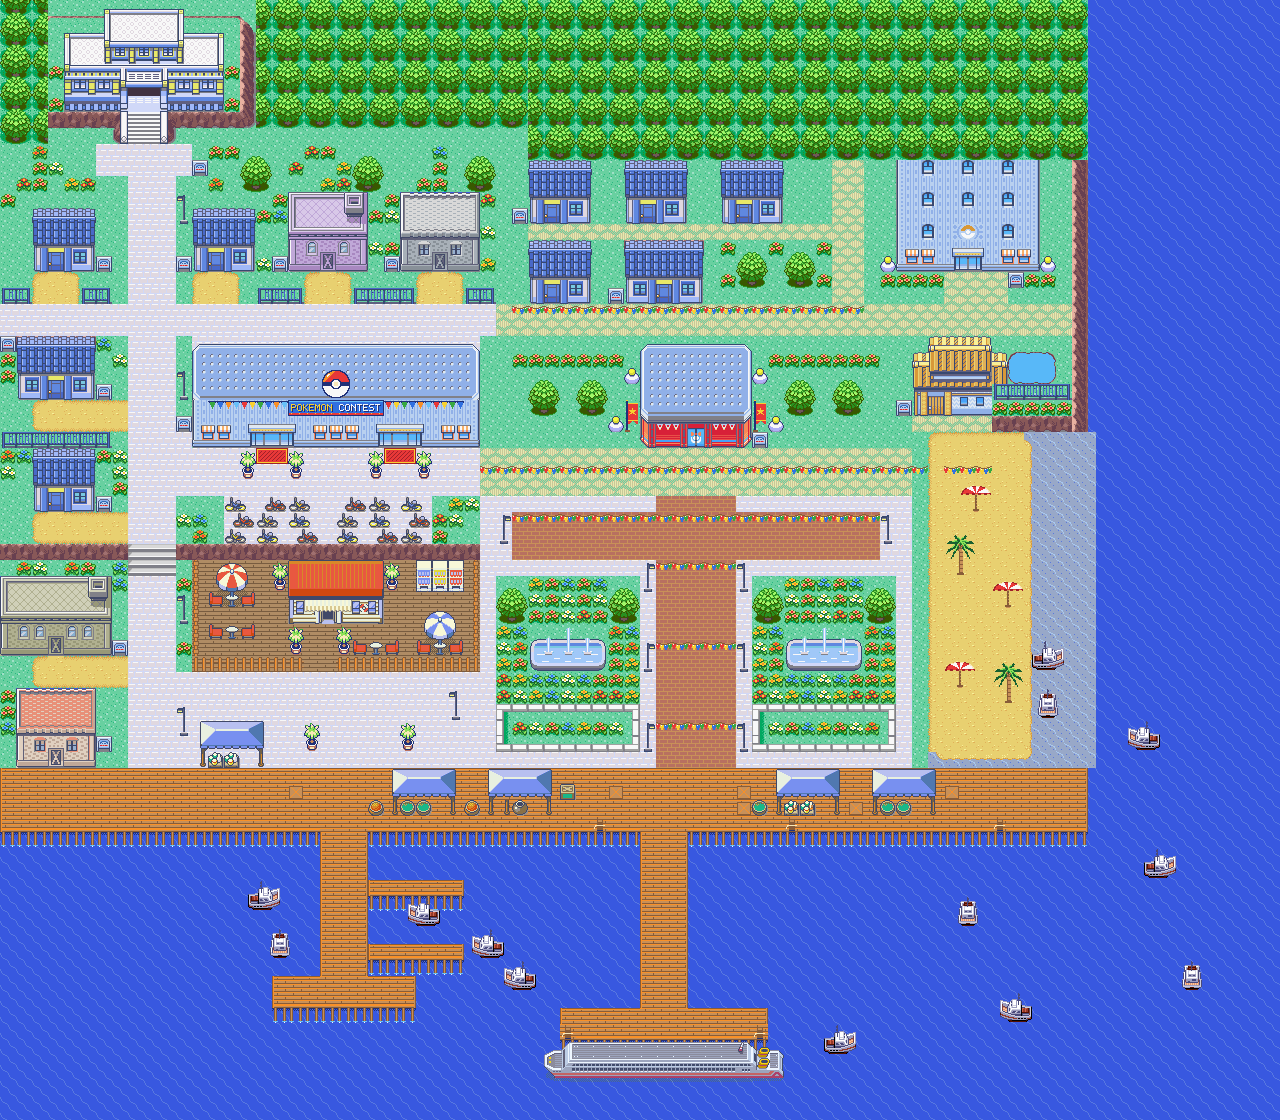
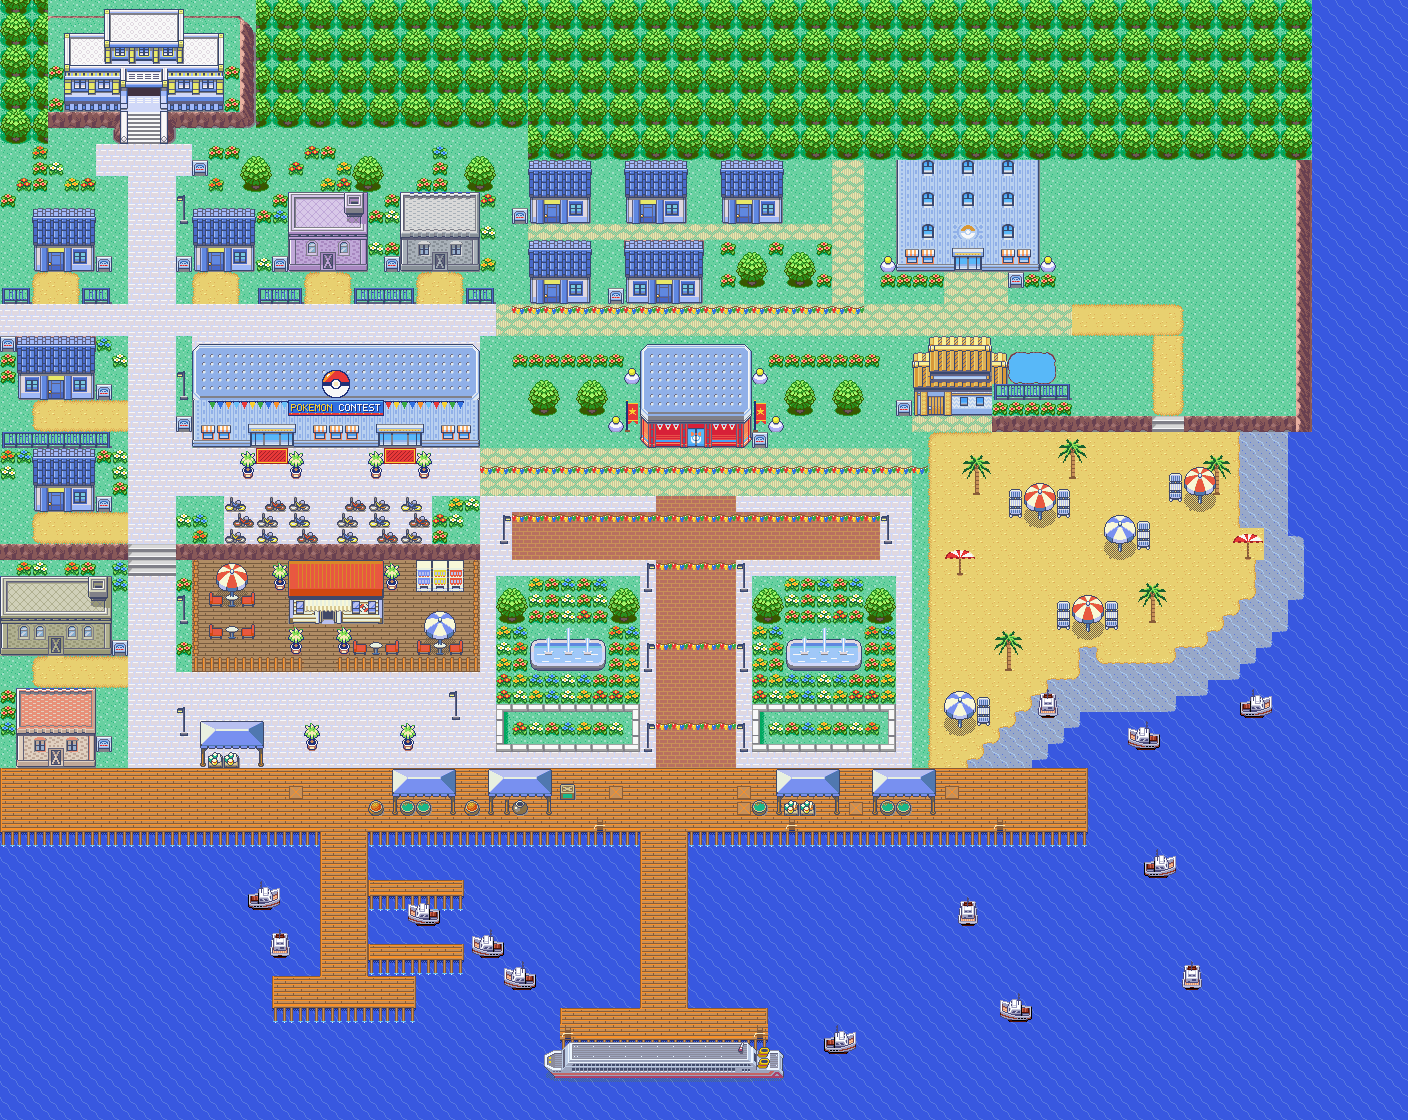
Beach: map widened east, natural horizontal shoreline, hotel plateau, sand road with stairs, beach sets
- Map 88x70. Shore decided per corner (sand / shallow / sea) with the original Lilycove shore pieces.
- Hotel plateau to the north (reserved), cliff edge, forest; sand road from the north street down a
  stair in the cliff.
- Palms, festival umbrellas and Route 109 umbrella + lounge chair sets (sprites).
- overview.py renders the full map with sprites.

Claude-Session: https://claude.ai/code/session_015nAeBdQj1XXGE9TrWVaT6H

diff --git a/src/data/object_events/lilycove_decor.h b/src/data/object_events/lilycove_decor.h
@@ -1,6 +1,91 @@
 // Generated by dev_scripts/lilycove_redesign/decor_sprites.py -- do not edit.
 const u16 gObjectEventPal_LilycoveDecor[] = INCGFX_U16("graphics/object_events/palettes/lilycove_decor.pal", ".gbapal");
 
+const u32 gObjectEventPic_LcBeachSetBlue[] = INCGFX_U32("graphics/object_events/pics/misc/lc_beach_set_blue.png", ".4bpp");
+static const struct SpriteFrameImage sPicTable_LcBeachSetBlue[] = { obj_frame_tiles(gObjectEventPic_LcBeachSetBlue), };
+static const struct Subsprite sOamTable_LcBeachSetBlue_2[] = {
+    {.x = -24, .y = -24, .shape = SPRITE_SHAPE(32x32), .size = SPRITE_SIZE(32x32), .tileOffset = 0, .priority = 2},
+    {.x = 8, .y = -24, .shape = SPRITE_SHAPE(16x32), .size = SPRITE_SIZE(16x32), .tileOffset = 16, .priority = 2},
+    {.x = -24, .y = 8, .shape = SPRITE_SHAPE(32x16), .size = SPRITE_SIZE(32x16), .tileOffset = 24, .priority = 2},
+    {.x = 8, .y = 8, .shape = SPRITE_SHAPE(16x16), .size = SPRITE_SIZE(16x16), .tileOffset = 32, .priority = 2},
+};
+static const struct Subsprite sOamTable_LcBeachSetBlue_1[] = {
+    {.x = -24, .y = -24, .shape = SPRITE_SHAPE(32x32), .size = SPRITE_SIZE(32x32), .tileOffset = 0, .priority = 1},
+    {.x = 8, .y = -24, .shape = SPRITE_SHAPE(16x32), .size = SPRITE_SIZE(16x32), .tileOffset = 16, .priority = 1},
+    {.x = -24, .y = 8, .shape = SPRITE_SHAPE(32x16), .size = SPRITE_SIZE(32x16), .tileOffset = 24, .priority = 1},
+    {.x = 8, .y = 8, .shape = SPRITE_SHAPE(16x16), .size = SPRITE_SIZE(16x16), .tileOffset = 32, .priority = 1},
+};
+static const struct SubspriteTable sOamTables_LcBeachSetBlue[] = {
+    {ARRAY_COUNT(sOamTable_LcBeachSetBlue_2), sOamTable_LcBeachSetBlue_2},
+    {ARRAY_COUNT(sOamTable_LcBeachSetBlue_2), sOamTable_LcBeachSetBlue_2},
+    {ARRAY_COUNT(sOamTable_LcBeachSetBlue_1), sOamTable_LcBeachSetBlue_1},
+    {ARRAY_COUNT(sOamTable_LcBeachSetBlue_2), sOamTable_LcBeachSetBlue_2},
+    {ARRAY_COUNT(sOamTable_LcBeachSetBlue_1), sOamTable_LcBeachSetBlue_1},
+    {ARRAY_COUNT(sOamTable_LcBeachSetBlue_1), sOamTable_LcBeachSetBlue_1},
+};
+const struct ObjectEventGraphicsInfo gObjectEventGraphicsInfo_LcBeachSetBlue = {
+    .tileTag = TAG_NONE, .paletteTag = OBJ_EVENT_PAL_TAG_LILYCOVE_DECOR, .reflectionPaletteTag = OBJ_EVENT_PAL_TAG_NONE,
+    .size = 1152, .width = 48, .height = 48, .paletteSlot = PALSLOT_NPC_SPECIAL, .shadowSize = SHADOW_SIZE_M,
+    .inanimate = TRUE, .compressed = FALSE, .tracks = TRACKS_NONE, .oam = &gObjectEventBaseOam_8x8,
+    .subspriteTables = sOamTables_LcBeachSetBlue, .anims = sAnimTable_Inanimate, .images = sPicTable_LcBeachSetBlue,
+};
+
+const u32 gObjectEventPic_LcBeachSetRed[] = INCGFX_U32("graphics/object_events/pics/misc/lc_beach_set_red.png", ".4bpp");
+static const struct SpriteFrameImage sPicTable_LcBeachSetRed[] = { obj_frame_tiles(gObjectEventPic_LcBeachSetRed), };
+static const struct Subsprite sOamTable_LcBeachSetRed_2[] = {
+    {.x = -40, .y = -24, .shape = SPRITE_SHAPE(64x32), .size = SPRITE_SIZE(64x32), .tileOffset = 0, .priority = 2},
+    {.x = -40, .y = 8, .shape = SPRITE_SHAPE(32x16), .size = SPRITE_SIZE(32x16), .tileOffset = 32, .priority = 2},
+    {.x = -8, .y = 8, .shape = SPRITE_SHAPE(32x16), .size = SPRITE_SIZE(32x16), .tileOffset = 40, .priority = 2},
+};
+static const struct Subsprite sOamTable_LcBeachSetRed_1[] = {
+    {.x = -40, .y = -24, .shape = SPRITE_SHAPE(64x32), .size = SPRITE_SIZE(64x32), .tileOffset = 0, .priority = 1},
+    {.x = -40, .y = 8, .shape = SPRITE_SHAPE(32x16), .size = SPRITE_SIZE(32x16), .tileOffset = 32, .priority = 1},
+    {.x = -8, .y = 8, .shape = SPRITE_SHAPE(32x16), .size = SPRITE_SIZE(32x16), .tileOffset = 40, .priority = 1},
+};
+static const struct SubspriteTable sOamTables_LcBeachSetRed[] = {
+    {ARRAY_COUNT(sOamTable_LcBeachSetRed_2), sOamTable_LcBeachSetRed_2},
+    {ARRAY_COUNT(sOamTable_LcBeachSetRed_2), sOamTable_LcBeachSetRed_2},
+    {ARRAY_COUNT(sOamTable_LcBeachSetRed_1), sOamTable_LcBeachSetRed_1},
+    {ARRAY_COUNT(sOamTable_LcBeachSetRed_2), sOamTable_LcBeachSetRed_2},
+    {ARRAY_COUNT(sOamTable_LcBeachSetRed_1), sOamTable_LcBeachSetRed_1},
+    {ARRAY_COUNT(sOamTable_LcBeachSetRed_1), sOamTable_LcBeachSetRed_1},
+};
+const struct ObjectEventGraphicsInfo gObjectEventGraphicsInfo_LcBeachSetRed = {
+    .tileTag = TAG_NONE, .paletteTag = OBJ_EVENT_PAL_TAG_LILYCOVE_DECOR, .reflectionPaletteTag = OBJ_EVENT_PAL_TAG_NONE,
+    .size = 1536, .width = 64, .height = 48, .paletteSlot = PALSLOT_NPC_SPECIAL, .shadowSize = SHADOW_SIZE_M,
+    .inanimate = TRUE, .compressed = FALSE, .tracks = TRACKS_NONE, .oam = &gObjectEventBaseOam_8x8,
+    .subspriteTables = sOamTables_LcBeachSetRed, .anims = sAnimTable_Inanimate, .images = sPicTable_LcBeachSetRed,
+};
+
+const u32 gObjectEventPic_LcBeachSetRedL[] = INCGFX_U32("graphics/object_events/pics/misc/lc_beach_set_red_l.png", ".4bpp");
+static const struct SpriteFrameImage sPicTable_LcBeachSetRedL[] = { obj_frame_tiles(gObjectEventPic_LcBeachSetRedL), };
+static const struct Subsprite sOamTable_LcBeachSetRedL_2[] = {
+    {.x = -24, .y = -24, .shape = SPRITE_SHAPE(32x32), .size = SPRITE_SIZE(32x32), .tileOffset = 0, .priority = 2},
+    {.x = 8, .y = -24, .shape = SPRITE_SHAPE(16x32), .size = SPRITE_SIZE(16x32), .tileOffset = 16, .priority = 2},
+    {.x = -24, .y = 8, .shape = SPRITE_SHAPE(32x16), .size = SPRITE_SIZE(32x16), .tileOffset = 24, .priority = 2},
+    {.x = 8, .y = 8, .shape = SPRITE_SHAPE(16x16), .size = SPRITE_SIZE(16x16), .tileOffset = 32, .priority = 2},
+};
+static const struct Subsprite sOamTable_LcBeachSetRedL_1[] = {
+    {.x = -24, .y = -24, .shape = SPRITE_SHAPE(32x32), .size = SPRITE_SIZE(32x32), .tileOffset = 0, .priority = 1},
+    {.x = 8, .y = -24, .shape = SPRITE_SHAPE(16x32), .size = SPRITE_SIZE(16x32), .tileOffset = 16, .priority = 1},
+    {.x = -24, .y = 8, .shape = SPRITE_SHAPE(32x16), .size = SPRITE_SIZE(32x16), .tileOffset = 24, .priority = 1},
+    {.x = 8, .y = 8, .shape = SPRITE_SHAPE(16x16), .size = SPRITE_SIZE(16x16), .tileOffset = 32, .priority = 1},
+};
+static const struct SubspriteTable sOamTables_LcBeachSetRedL[] = {
+    {ARRAY_COUNT(sOamTable_LcBeachSetRedL_2), sOamTable_LcBeachSetRedL_2},
+    {ARRAY_COUNT(sOamTable_LcBeachSetRedL_2), sOamTable_LcBeachSetRedL_2},
+    {ARRAY_COUNT(sOamTable_LcBeachSetRedL_1), sOamTable_LcBeachSetRedL_1},
+    {ARRAY_COUNT(sOamTable_LcBeachSetRedL_2), sOamTable_LcBeachSetRedL_2},
+    {ARRAY_COUNT(sOamTable_LcBeachSetRedL_1), sOamTable_LcBeachSetRedL_1},
+    {ARRAY_COUNT(sOamTable_LcBeachSetRedL_1), sOamTable_LcBeachSetRedL_1},
+};
+const struct ObjectEventGraphicsInfo gObjectEventGraphicsInfo_LcBeachSetRedL = {
+    .tileTag = TAG_NONE, .paletteTag = OBJ_EVENT_PAL_TAG_LILYCOVE_DECOR, .reflectionPaletteTag = OBJ_EVENT_PAL_TAG_NONE,
+    .size = 1152, .width = 48, .height = 48, .paletteSlot = PALSLOT_NPC_SPECIAL, .shadowSize = SHADOW_SIZE_M,
+    .inanimate = TRUE, .compressed = FALSE, .tracks = TRACKS_NONE, .oam = &gObjectEventBaseOam_8x8,
+    .subspriteTables = sOamTables_LcBeachSetRedL, .anims = sAnimTable_Inanimate, .images = sPicTable_LcBeachSetRedL,
+};
+
 const u32 gObjectEventPic_LcTableSet[] = INCGFX_U32("graphics/object_events/pics/misc/lc_table_set.png", ".4bpp");
 static const struct SpriteFrameImage sPicTable_LcTableSet[] = { obj_frame_tiles(gObjectEventPic_LcTableSet), };
 static const struct Subsprite sOamTable_LcTableSet_2[] = {

diff --git a/dev_scripts/lilycove_redesign/layout.py b/dev_scripts/lilycove_redesign/layout.py
@@ -80,8 +80,7 @@ bunting(16,38,11)                                  # north street
 # palms along the promenade
 for px_ in (2,10): palm(px_,36,'brick')   # promenade palms, outside the plaza
 # beach: umbrellas + palms
-umbrella(44,22); umbrella(46,28,True); umbrella(43,33)
-palm(43,25); palm(46,33)
+# (the beach is drawn at the end, see BEACH)
 
 # ================= PORT: BOARDWALK, PIERS, STALLS, BOATS AND THE CRUISE SHIP =================
 fill(-OX,40,52,H,DEEP)
@@ -282,3 +281,70 @@ for x in (-1,6,13): lamp2(x,10,'paving') if False else None
 bunting(-8,14,21)                                                           # avenue bunting (west part)
 sign(-16,13); sign(-4,2)                                                    # city sign, museum sign
 for (sx,sy) in ((8,8),(1,8),(-5,8),(-10,8),(16,5)): sign(sx,sy)               # house signs over the gardens
+
+# ================= BEACH (east): a natural, horizontal beach under the hotel plateau ==================
+# The map was widened 8 columns to the east (logical x up to 71). Terrain is decided per CORNER
+# (vertex): S = sand, W = shallow water, D = deep sea; each cell takes the Emerald shore piece that
+# matches its 4 corners (the same pieces as the original Lilycove beach).
+import math
+SHORE = {'SSSS':0x124,'WWWW':0x19e,'DDDD':0x170,
+         'WSSS':0x185,'SWSS':0x186,'SSWS':0x18d,'SSSW':0x18e,'WWWS':0x195,'WWSS':0x196,'WWSW':0x197,
+         'WSWS':0x19d,'SWSW':0x19f,'WSWW':0x1a5,'SSWW':0x1a6,'SWWW':0x1a7,
+         'DWWW':0x19b,'WDWW':0x19c,'WWWD':0x1a4,'DDDW':0x1ad,'DDWW':0x1ae,'DDWD':0x1af,'WDWD':0x1b7,
+         'DWDD':0x1bd,'WWDD':0x1be,'WDDD':0x1bf}
+SHORE_VAL = {}
+for _y in range(0,40):                       # collision/elevation exactly as in the original map
+    for _x in range(40,80):
+        _v=o(_x,_y)
+        SHORE_VAL.setdefault(_v&0x3ff,_v)
+BX0, BX1, BY0, BY1 = 41, 72, 19, 40          # beach box (vertices); the boardwalk starts at row 40
+def south(vx):                               # sand reaches this vertex row: a gentle, mostly horizontal shore
+    if vx <= 44: return 40
+    if vx <= 51: return 34 + 6 * (1 + math.cos(math.pi * (vx - 44) / 7)) / 2
+    return 34 + 0.9 * math.sin(vx * 0.45) + 0.4 * math.sin(vx * 1.3)
+def east(vy):                                # sand reaches this vertex column: rounded east end
+    e = 62 + 0.8 * math.sin(vy * 0.5)
+    if vy > 27: e -= ((vy - 27) / 7.0) ** 2 * 5
+    return e
+def is_sand(vx, vy):
+    return vx <= east(vy) and vy <= south(vx)
+sand_v = {(vx, vy): is_sand(vx, vy) for vx in range(BX0, BX1 + 1) for vy in range(BY0, BY1 + 1)}
+def dist_to_sand(vx, vy):
+    best = 9
+    for dx in range(-3, 4):
+        for dy in range(-3, 4):
+            if sand_v.get((vx + dx, vy + dy)): best = min(best, math.hypot(dx, dy))
+    return best
+def terrain(vx, vy):
+    if sand_v.get((vx, vy)): return 'S'
+    return 'W' if dist_to_sand(vx, vy) <= 3.1 else 'D'
+missing = set()
+for y in range(BY0, BY1):
+    for x in range(BX0 + 1, BX1):
+        k = terrain(x, y) + terrain(x + 1, y) + terrain(x, y + 1) + terrain(x + 1, y + 1)
+        if k not in SHORE:
+            missing.add(k); k = 'WWWW' if 'S' not in k else ('SSSS' if k.count('S') >= 2 else 'WWWW')
+        mt = SHORE[k]; put(x, y, SHORE_VAL.get(mt, T(mt)))
+if missing: print('beach: combos without a piece:', sorted(missing))
+for y in range(BY0, BY1):                     # soft grass edge on the west side of the sand
+    if (M[y + OY][42 + OX] & 0x3ff) == 0x124: put(42, y, T(0x120))
+for x in range(42, 46): put(x, BY0, T(0x119))
+put(42, BY0, T(0x118))
+
+# --- hotel plateau to the north (future hotel): grass, cliff edge to the beach, forest behind
+fill(51, 2, 65, 18, GRASS); trees(52, -8, 66, 2, grass_above=False)
+for y in range(2, 19): put(65, y, T(0x075, 1, 0))
+for x in range(46, 65): put(x, 18, T(0x079, 1, 0))
+fill(66, -8, 72, 19, DEEP)
+# --- sand road: from the end of the north street across the plateau and down to the beach
+trail(51, 11, 58, 13, 'l')                    # along the north street line
+trail(56, 13, 58, 18, 't')                    # turning south (soft edges on both sides)
+stairs3(55, 18, 19) if False else None
+put(56, 18, T(0x0af)); put(57, 18, T(0x0cf))  # stairs down the cliff to the sand
+
+# --- beach dressing: palms and small festival umbrellas (tileset), umbrella+chair sets (sprites)
+for (px_, py_) in ((44, 20), (50, 19), (59, 20), (46, 31), (55, 28)): palm(px_, py_, 'sand')
+for (ux, uy) in ((43, 26), (61, 25)): umbrella(ux, uy)
+decor('beach_set_red', 47, 22, walk_rows=1); decor('beach_set_blue', 53, 24, walk_rows=1)
+decor('beach_set_red_l', 57, 21, walk_rows=1); decor('beach_set_red', 50, 29, walk_rows=1)
+decor('beach_set_blue', 43, 35, walk_rows=1)

diff --git a/dev_scripts/lilycove_redesign/overview.py b/dev_scripts/lilycove_redesign/overview.py
@@ -1,0 +1,51 @@
+"""Renders the whole Lilycove map WITH its sprites (cruise ship, boats, decorations) and,
+optionally, zone labels: python3 overview.py out.png [--labels]"""
+import json, os, sys
+from PIL import Image, ImageDraw, ImageFont
+import render, port_art as P, authentic_art as A
+from compose import W, OX, OY
+HERE = os.path.dirname(os.path.abspath(__file__)); REPO = os.path.abspath(os.path.join(HERE, '..', '..'))
+
+def build(out, labels=False):
+    tmp = out + '.bg.png'
+    render.render(os.path.join(REPO, 'data/layouts/LilycoveCity/map.bin'), W, tmp, sec='secondary/lilycove_city')
+    im = Image.open(tmp).convert('RGBA'); os.remove(tmp)
+    m = json.load(open(os.path.join(REPO, 'data/maps/LilycoveCity/map.json'))); cache = {}
+    def idx(c, slot):
+        pal = P.PALETTES[slot]; o = Image.new('RGBA', (len(c[0]), len(c)), (0, 0, 0, 0))
+        for y, r in enumerate(c):
+            for x, v in enumerate(r):
+                if v: o.putpixel((x, y), tuple(pal[v]) + (255,))
+        return o
+    for e in sorted(m['object_events'], key=lambda e: e['y']):
+        g = e['graphics_id']; tx, ty = e['x'], e['y']
+        if g.startswith('OBJ_EVENT_GFX_LC_'):
+            n = g[len('OBJ_EVENT_GFX_LC_'):].lower()
+            if n not in cache: cache[n] = idx(P.ART[n](), 11)
+            s = cache[n]; im.alpha_composite(s, ((tx - (s.width // 16) // 2) * 16, (ty + 1) * 16 - s.height))
+        elif g.startswith('OBJ_EVENT_GFX_CRUISE_SHIP_'):
+            s = A.sprite('graphics/object_events/pics/misc/cruise_ship_%s.png' % g[-1], 'graphics/object_events/palettes/ss_tidal.pal')
+            im.alpha_composite(s, (tx * 16 + 8 - 32, (ty + 1) * 16 - 48))
+        elif g == 'OBJ_EVENT_GFX_MR_BRINEYS_BOAT':
+            mv = e['movement_type']; s = A.briney_boat(0 if mv.endswith('DOWN') else 2)
+            if mv.endswith('RIGHT'): s = s.transpose(Image.FLIP_LEFT_RIGHT)
+            im.alpha_composite(s, (tx * 16 - 8, (ty + 1) * 16 - 32))
+    if labels:
+        d = ImageDraw.Draw(im)
+        try: font = ImageFont.truetype('/usr/share/fonts/truetype/dejavu/DejaVuSans-Bold.ttf', 18)
+        except Exception: font = ImageFont.load_default()
+        for x, y, t in LABELS:
+            px, py = (x + OX) * 16, (y + OY) * 16
+            bb = d.textbbox((px, py), t, font=font)
+            d.rectangle([bb[0] - 4, bb[1] - 3, bb[2] + 4, bb[3] + 3], fill=(255, 255, 255, 220), outline=(30, 30, 60, 255))
+            d.text((px, py), t, fill=(20, 20, 70, 255), font=font)
+    im.convert('RGB').save(out)
+
+LABELS = [(-12, -1, 'Museu'), (-14, 3, 'Casa Neves'), (-1, 1, 'Casas do L'), (-16, 10, 'Rota 121 ←'), (-15, 12, 'Ed. Lilás'),
+          (-15, 19, 'Casa Ventura'), (-15, 27, 'Brisa do Mar'), (-15, 34, 'Res. Coral'), (1, 13, 'SHOPPING'), (-1, 23, 'Bicicletário'),
+          (0, 28, 'Café Litoral'), (24, 12, 'Centro de Concursos'), (22, 29, 'Praça das Fontes'), (41, 12, 'Motel'),
+          (17, 1, 'Bairro 2'), (40, 0, 'Loja antiga'), (55, 6, 'Hotel (futuro)'), (50, 33, 'PRAIA'), (20, 42, 'Calçadão / Mercado'),
+          (20, 60, 'Cruzeiro'), (3, 55, 'Píer dos pescadores')]
+
+if __name__ == '__main__':
+    build(sys.argv[1], '--labels' in sys.argv)

diff --git a/src/data/object_events/object_event_graphics_info_pointers.h b/src/data/object_events/object_event_graphics_info_pointers.h
@@ -143,6 +143,9 @@ extern const struct ObjectEventGraphicsInfo gObjectEventGraphicsInfo_CruiseShip1
 extern const struct ObjectEventGraphicsInfo gObjectEventGraphicsInfo_CruiseShip2;
 extern const struct ObjectEventGraphicsInfo gObjectEventGraphicsInfo_CruiseShip3;
 // LILYCOVE_DECOR_EXTERN_BEGIN
+extern const struct ObjectEventGraphicsInfo gObjectEventGraphicsInfo_LcBeachSetBlue;
+extern const struct ObjectEventGraphicsInfo gObjectEventGraphicsInfo_LcBeachSetRed;
+extern const struct ObjectEventGraphicsInfo gObjectEventGraphicsInfo_LcBeachSetRedL;
 extern const struct ObjectEventGraphicsInfo gObjectEventGraphicsInfo_LcTableSet;
 extern const struct ObjectEventGraphicsInfo gObjectEventGraphicsInfo_LcTentFlowers;
 extern const struct ObjectEventGraphicsInfo gObjectEventGraphicsInfo_LcTentGreen;
@@ -560,6 +563,9 @@ const struct ObjectEventGraphicsInfo *const gObjectEventGraphicsInfoPointers[NUM
     [OBJ_EVENT_GFX_CRUISE_SHIP_2] =            &gObjectEventGraphicsInfo_CruiseShip2,
     [OBJ_EVENT_GFX_CRUISE_SHIP_3] =            &gObjectEventGraphicsInfo_CruiseShip3,
     // LILYCOVE_DECOR_BEGIN
+    [OBJ_EVENT_GFX_LC_BEACH_SET_BLUE] = &gObjectEventGraphicsInfo_LcBeachSetBlue,
+    [OBJ_EVENT_GFX_LC_BEACH_SET_RED] = &gObjectEventGraphicsInfo_LcBeachSetRed,
+    [OBJ_EVENT_GFX_LC_BEACH_SET_RED_L] = &gObjectEventGraphicsInfo_LcBeachSetRedL,
     [OBJ_EVENT_GFX_LC_TABLE_SET] = &gObjectEventGraphicsInfo_LcTableSet,
     [OBJ_EVENT_GFX_LC_TENT_FLOWERS] = &gObjectEventGraphicsInfo_LcTentFlowers,
     [OBJ_EVENT_GFX_LC_TENT_GREEN] = &gObjectEventGraphicsInfo_LcTentGreen,

diff --git a/dev_scripts/lilycove_redesign/port_art.py b/dev_scripts/lilycove_redesign/port_art.py
@@ -209,3 +209,16 @@ for _n, _cols, _y0 in (('bike_yellow', [[0x211, 0x219], [0x212, 0x21a]], 8),
                        ('bike_blue', [[0x221, 0x206], [0x222, 0x207]], 8),
                        ('bike_red', [[0x253, 0x245], [0x254, 0x246]], 0)):
     _CANVAS[_n] = _fixed(_bike(_cols, _y0), 11); PAL_OF[_n] = 11; ART[_n] = (lambda n=_n: _CANVAS[n])
+
+# ---- beach sets (sprites): Route 109 umbrella with Route 109 lounge chairs beside it ----
+def _beach_set(ux, uy, chairs):
+    u = A.beach_umbrella(ux, uy); ch = A.from_map('Route109', 40, 'secondary/slateport', 17, 8, 1, 3, bg=0x124)
+    w = 32 + 16 * len(chairs); im = Image.new('RGBA', (w, 48), (0, 0, 0, 0))
+    x = 0
+    if 'L' in chairs: im.alpha_composite(ch, (0, 0)); x = 16
+    im.alpha_composite(u, (x, 0))
+    if 'R' in chairs: im.alpha_composite(ch, (x + 32, 0))
+    return im
+for _n, _mk in (('beach_set_red', lambda: _beach_set(9, 6, 'LR')), ('beach_set_blue', lambda: _beach_set(24, 3, 'R')),
+                ('beach_set_red_l', lambda: _beach_set(9, 6, 'L'))):
+    _CANVAS[_n] = _fixed(_mk(), 11); PAL_OF[_n] = 11; ART[_n] = (lambda n=_n: _CANVAS[n])

diff --git a/dev_scripts/lilycove_redesign/compose.py b/dev_scripts/lilycove_redesign/compose.py
@@ -6,7 +6,7 @@ OW=80
 def o(x,y): return struct.unpack_from('<H',ORIG,(y*OW+x)*2)[0]
 OX=16            # the map was widened 16 columns to the west; layout coords are logical (x may be negative)
 OY=8             # ...and 8 rows to the north (y may be negative)
-W,H=80,70
+W,H=88,70
 M=[[0]*W for _ in range(H)]
 def T(i,col=0,el=3): return i|(col<<10)|(el<<12)
 GRASS=T(0x001); GRASS2=T(0x002); FLOWERS=T(0x004); 

diff --git a/include/constants/event_objects.h b/include/constants/event_objects.h
@@ -418,6 +418,9 @@ enum
     OBJ_EVENT_GFX_CRUISE_SHIP_2,
     OBJ_EVENT_GFX_CRUISE_SHIP_3,
     // LILYCOVE_DECOR_BEGIN
+    OBJ_EVENT_GFX_LC_BEACH_SET_BLUE,
+    OBJ_EVENT_GFX_LC_BEACH_SET_RED,
+    OBJ_EVENT_GFX_LC_BEACH_SET_RED_L,
     OBJ_EVENT_GFX_LC_TABLE_SET,
     OBJ_EVENT_GFX_LC_TENT_FLOWERS,
     OBJ_EVENT_GFX_LC_TENT_GREEN,

diff --git a/docs/lilycove/README.md b/docs/lilycove/README.md
@@ -119,6 +119,19 @@ gerado por `build_city_tileset.py`. Ele mantém os ids de metatile que a cidade 
 (as animações de porta continuam funcionando) e reaproveita o espaço que só servia à
 Rota 121 e ao Safari. Tiles iguais ou espelhados são reaproveitados (espaço livre: ver abaixo).
 
+## Praia (leste)
+O mapa ganhou 8 colunas a leste (agora 88×70).
+* **Orla natural e horizontal**: a areia desce até o calçadão no oeste e a linha d'água corre
+  na horizontal para o leste, com ondulações suaves e ponta leste arredondada. O terreno é
+  decidido por cantos (areia / água rasa / mar) e cada tile usa a peça de borda do Emerald que
+  combina com os 4 cantos, as mesmas da praia original de Lilycove; faixa larga de água rasa.
+* **Platô do hotel ao norte** (reservado para a arte do hotel): o terreno do Motel se estende
+  para o leste, com falésia na divisa com a praia e floresta atrás.
+* **Estrada de areia**: continua a rua norte pelo platô e desce por uma escada na falésia até a praia.
+* **Adereços**: palmeiras e guarda-sóis do festival; **conjuntos de guarda-sol da Rota 109 com
+  espreguiçadeiras** (sprites, sombra pontilhada na areia).
+* `overview.py` gera o mapa completo com os sprites (`docs/lilycove/mapa_geral*.png`).
+
 ## Shopping (Loja de Departamentos)
 Ocupa o quarteirão inteiro entre a rua norte e a avenida, acima do café.
 * **Telhado plano** (4 linhas) com as peças do telhado do Centro de Concursos original (repetidas na
